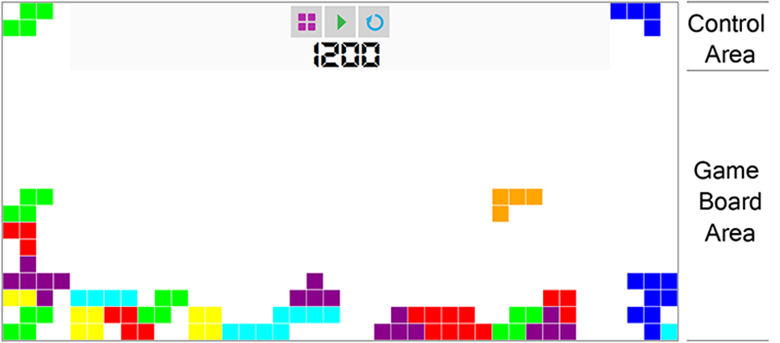
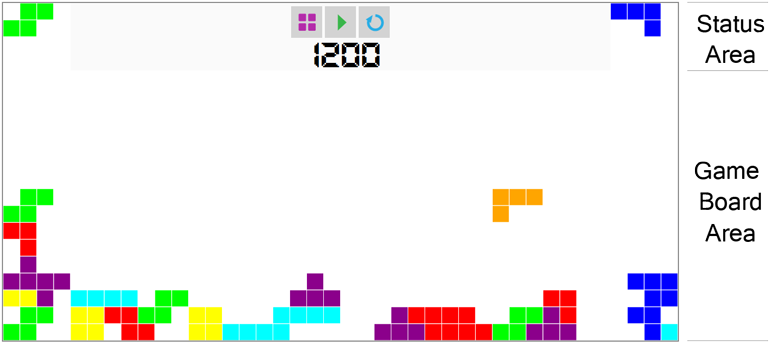
More work on Guide

diff --git a/views/guide.html b/views/guide.html
@@ -37,8 +37,23 @@
                 <span id="start-game-button-span">START GAME</span> button from the first page.</section>
             <img id="start-hint" src="/images/tetwix-start-hint.png">
             <section>After starting the game you will be presented with the game area that is divided into two major
-            section: the Control Area and the Game Board Area.</section>
+            section: the Status Area and the Game Board Area.</section>
             <img src="/images/tetwix-areas.png">
+            <section>The Game Board Area is where all the action takes place. Player move and rotate the falling pieces
+            in order to place them accordingly to score as many point as possible</section>
+            <section>The Status Area is split into another couple of sections: The Piece Funnels, that are located
+                at the edges, 3 Control Buttons (Start Page, Pause/Resume, Restart) and Score label located in the
+                center of the area. </section>
+            <section>Pressing the <span class="control" id="start-page"></span> (Start Page) button will close the current game and return the players to the start page.</section>
+            <section>Pressing the <span class="control" id="pause"></span> (Pause) will pause the game until the <span class="control" id="resume"></span> (Resume) button is pressed.</section>
+            <img src="/images/gifs/pause-resume.gif">
+            <section>Pressing the <span class="control" id="restart"></span> (Restart) button will start a new game. Unless the game has ended restarting the game will erase the current progress.</section>
+            <img src="/images/gifs/restart.gif">
+            <section>Players are rewarded 100 point for one cleared line. [...]</section>
+            <img src="/images/gifs/clear-lines.gif">
+            <section>When one of the players reaches the top limit of the Game Board Area the current game is over and
+                the players have the possibility to share the score on Facebook.</section>
+            <img src="/images/gifs/game-over.gif">
             <nav>
                 <a href="#">Keyboard</a>
                 <a href="#">LEAP Motion</a>

diff --git a/public/stylesheets/guide.css b/public/stylesheets/guide.css
@@ -71,3 +71,26 @@ section {
     width: 23%;
     margin: 5px;
 }
+.control {
+    display: inline-block;
+    height: 50px;
+    width: 50px;
+    background: lightgray;
+
+}
+#start-page {
+    background-image: url("images/start-page.png");
+    background-size: 100%;
+}
+#pause {
+    background-image: url("images/pause.png");
+    background-size: 100%;
+}
+#resume {
+    background-image: url("images/play.png");
+    background-size: 100%;
+}
+#restart {
+    background-image: url("images/restart.png");
+    background-size: 100%;
+}

diff --git a/public/javascripts/init.js b/public/javascripts/init.js
@@ -57,7 +57,7 @@ $("#game-wrapper" ).delegate("#control.play", "click", function() {
 $("#game-wrapper" ).delegate("#control.pause", "click", function() {
     $("#control").removeClass("pause");
     $("#control").addClass("play");
-    $("#control").attr('title', "Play")
+    $("#control").attr('title', "Resume")
     $("#pause").show();
     game.controls.pause();
 });
